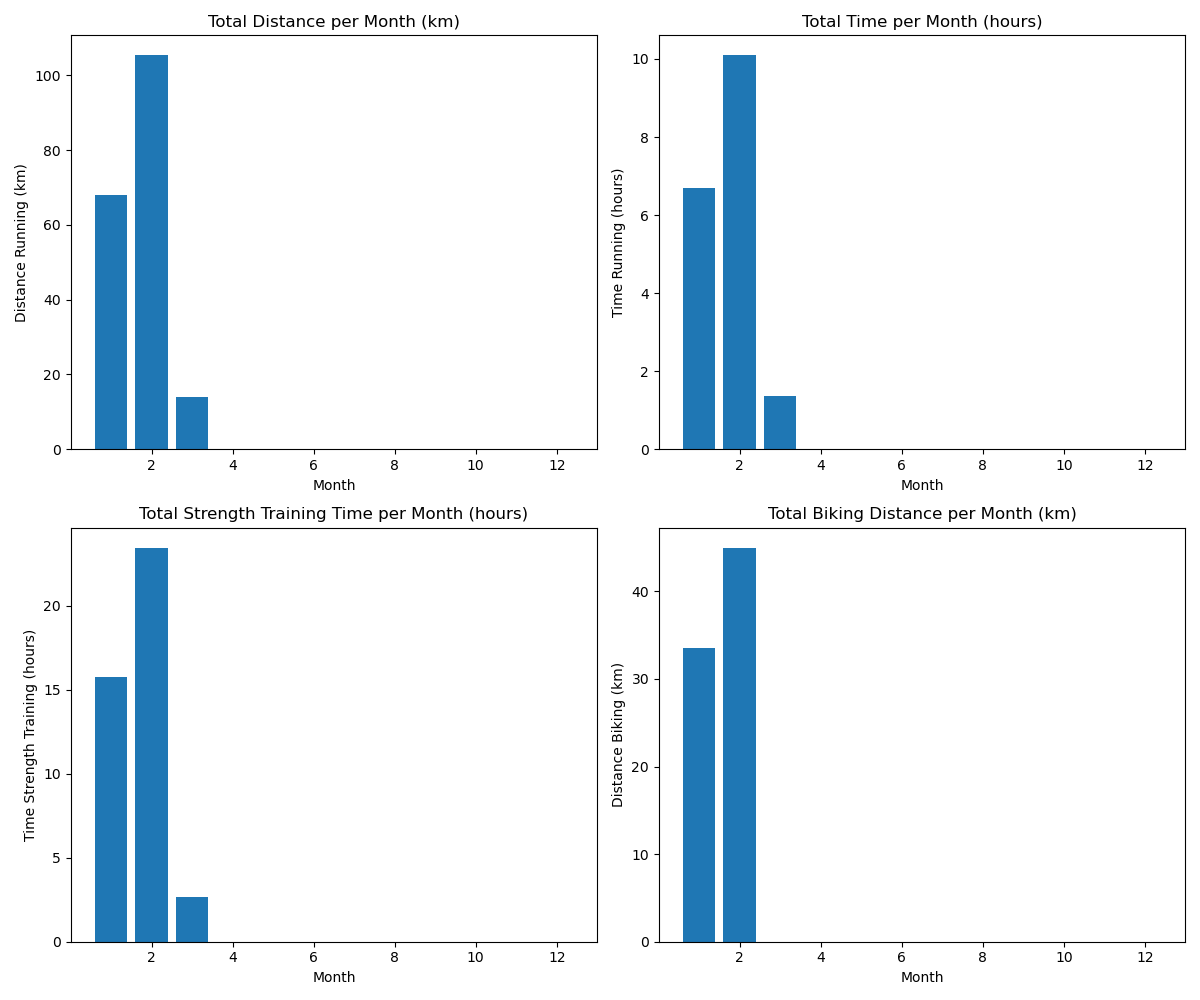
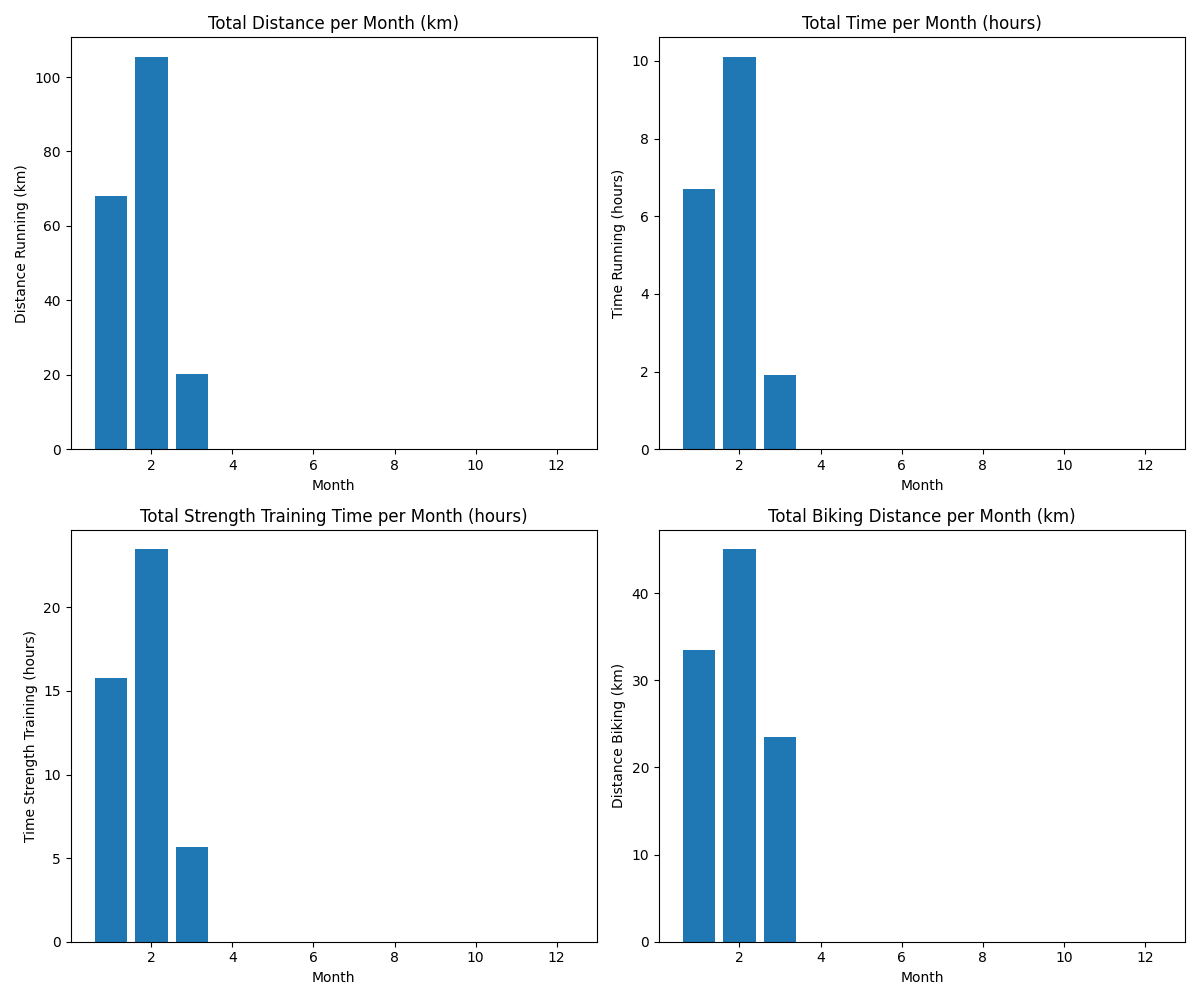
sport update 9.3

diff --git a/Sport/Sport_2026_report.md b/Sport/Sport_2026_report.md
@@ -3,19 +3,20 @@
 ## Sport Counts
 | type   |   count |
 |:-------|--------:|
-| F      |      49 |
+| F      |      52 |
 | K      |       5 |
-| Total  |      54 |
+| L      |       1 |
+| Total  |      58 |
 
 ## Summary
 - **Total distance run on treadmill:** 187.40 km
-- **Total distance run outside:** 0.00 km
-- **Total distance cycled:** 78.50 km
+- **Total distance run outside:** 6.14 km
+- **Total distance cycled:** 102.00 km
 - **Total distance swimming:** 0.00 km
-- **Total time spent on strength training:** 41h 53min
+- **Total time spent on strength training:** 44h 53min
 
 ## Average Speeds
 - **Treadmill running:** 10.45 km/h
-- **Outside running:** nan km/h
-- **Cycling:** 23.42 km/h
+- **Outside running:** 10.96 km/h
+- **Cycling:** 23.31 km/h
 - **Swimming:** nan km/h
